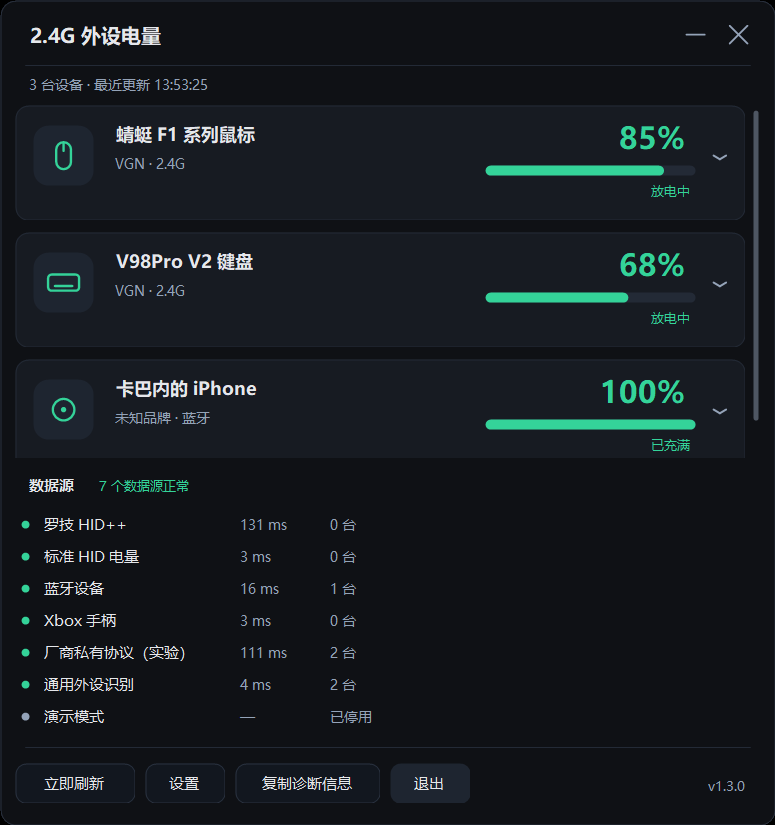
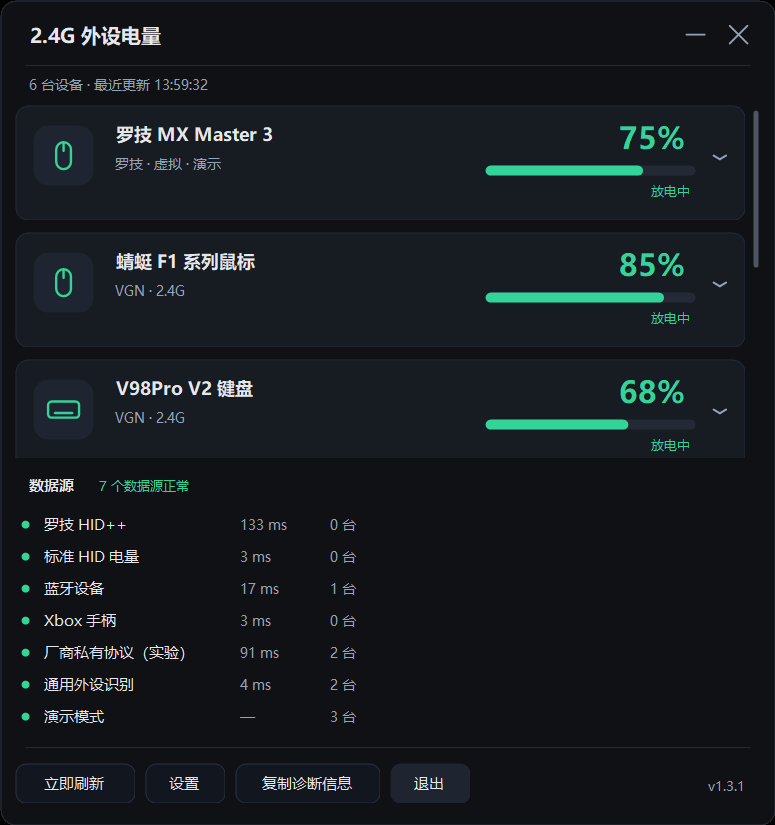
chore: 开源准备（MIT License、CI、SignPath 免费签名流程、贡献/安全文档）
- LICENSE (MIT), CONTRIBUTING.md, SECURITY.md, issue templates
- .github/workflows/build.yml（windows-latest 构建+自检）
- .github/workflows/release-sign.yml（SignPath 签名并发布 Release 模板）
- docs/opensource-signing.md（SignPath Foundation / Certum 申请配置步骤）
- README 增加英文简介、开源与许可说明；截图改用演示设备
- .gitignore 忽略 USB 抓包

diff --git a/docs/opensource-signing.md b/docs/opensource-signing.md
@@ -1,0 +1,115 @@
+# 开源项目免费代码签名（SignPath / Certum）
+
+> 目标：GitHub 开源后，用**开源项目专用**的免费代码签名，让 exe 显示正式发布者，
+> 不再出现 "Unknown publisher"。注意：免费证书基本都是 OV 级别，
+> **SmartScreen 信誉仍会随下载量/时间积累**，不会像 EV 那样立刻全绿。
+
+---
+
+## 方案 A：SignPath Foundation（推荐，可接 GitHub Actions）
+
+SignPath 为开源项目提供免费的代码签名服务（证书由 Sectigo/SignPath Foundation 签发）。
+适合：公开仓库 + OSI 认可许可证（MIT/Apache/GPL 等）+ 非商业项目。
+
+### 1. 先把仓库整理成可申请状态
+
+- GitHub 仓库 **public**；
+- 根目录有 `LICENSE`（本项目用 MIT）；
+- 有 README、构建脚本、release；
+- 项目在维护（有提交/issue）。
+
+### 2. 申请
+
+打开 <https://signpath.org/foundation>，填写：
+
+- 项目名、仓库 URL、许可证；
+- 维护者联系方式；
+- 说明用途（开源桌面工具，签名 Windows exe）。
+
+审核通过后你会收到 SignPath 账号邀请。
+
+### 3. 在 SignPath 里配置
+
+1. 安装 **SignPath GitHub App** 到你的仓库（只勾选目标仓库）；
+2. 新建 Project：slug 建议 `peripheral-battery`；
+3. 新建 **Artifact Configuration**：slug 建议 `exe`，指定要签名的文件：
+   `PeripheralBattery.exe`、`BatteryProbe.exe`、`VgnProbe.exe`；
+4. 新建 **Signing Policy**：slug 建议 `release-signing`，绑定该 artifact configuration；
+5. 在组织设置里生成 **API token**，记下 **Organization ID**。
+
+### 4. 配置 GitHub Secrets / Variables
+
+仓库 → Settings → Secrets and variables → Actions：
+
+| 类型 | 名称 | 值 |
+| --- | --- | --- |
+| Secret | `SIGNPATH_API_TOKEN` | SignPath 生成的 token |
+| Secret | `SIGNPATH_ORGANIZATION_ID` | SignPath Organization ID |
+| Variable（可选） | `SIGNPATH_PROJECT_SLUG` | 默认 peripheral-battery |
+| Variable（可选） | `SIGNPATH_POLICY_SLUG` | 默认 release-signing |
+| Variable（可选） | `SIGNPATH_CONFIG_SLUG` | 默认 exe |
+
+### 5. 发版
+
+仓库里已经准备好 `.github/workflows/release-sign.yml`：
+
+`bash
+git tag v1.3.1
+git push origin v1.3.1
+`
+
+工作流会：构建 → 跑自检 → 上传未签名产物 → 提交 SignPath 签名 → 等签名完成 →
+打包 zip → 创建 GitHub Release。签名后的文件在 `signed/` 目录。
+
+> 第一次跑之前，把 workflow 里的 `artifact-configuration-slug` 等改成你在 SignPath 里实际创建的 slug。
+
+### 6. SmartScreen 预期
+
+- 签名后属性里会显示发布者为 **SignPath Foundation**（或你项目绑定的组织）；
+- OV 证书初始仍可能触发 SmartScreen，需要下载量/时间积累信誉；
+- 想立刻全绿只能 EV（开源项目一般拿不到免费 EV）。
+
+---
+
+## 方案 B：Certum 开源代码签名证书（手工签名）
+
+Certum 对开源开发者提供免费代码签名证书（Open Source Code Signing）：
+
+1. 打开 Certum 的 Open Source Code Signing 页面，提交项目仓库、许可证、维护者身份；
+2. 审核通过后按邮件指引完成身份验证，证书通过 **SimplySign** 云签名使用；
+3. 签名（本项目脚本支持 PFX / 证书指纹）：
+   `powershell
+   powershell -ExecutionPolicy Bypass -File installer\sign.ps1 -Thumbprint <证书指纹>
+   `
+4. 时间戳已内置（RFC3161），证书过期后签名仍有效。
+
+缺点：没有 SignPath 那种开箱即用的 GitHub Action，需要手工/自定义 CI；仍然是 OV 信誉模型。
+
+---
+
+## 方案 C：不符合免费资格时
+
+- SignPath.io 付费计划（按签名次数）；
+- Azure Trusted Signing（要求约 3 年企业历史，个人通常不符合）；
+- 购买 OV/EV 证书（见 `docs/signing.md`）。
+
+---
+
+## 发布检查清单
+
+- [ ] 仓库 public + LICENSE（MIT）
+- [ ] `.github/workflows/build.yml` 绿灯
+- [ ] SignPath 申请通过，GitHub App 已安装
+- [ ] Secrets / Variables 配好
+- [ ] 打 tag → release-sign 工作流成功
+- [ ] 下载 release 里的 exe，属性 → 数字签名 显示有效
+- [ ] 在干净机器上运行一次，确认 SmartScreen 表现
+- [ ] 发布页附 `SHA256SUMS.txt`
+
+---
+
+## 参考
+
+- SignPath Foundation：<https://signpath.org/foundation>
+- SignPath GitHub Action：<https://github.com/signpath/github-action-submit-signing-request>
+- Certum Open Source Code Signing：<https://www.certum.eu/en/code-signing-certificates/open-source-code-signing/>

diff --git a/CONTRIBUTING.md b/CONTRIBUTING.md
@@ -1,0 +1,33 @@
+# Contributing
+
+感谢你愿意参与。这个项目是一个 Windows 托盘工具，目标只有一个：**尽可能准确地显示 2.4G / 蓝牙外设的电量，并且不骗人**（读不到就显示未知）。
+
+## 构建
+
+要求：Windows 10/11 x64 + .NET Framework 4.8（系统自带，不需要 .NET SDK / NuGet）。
+
+`powershell
+powershell -ExecutionPolicy Bypass -File .\build.ps1 -Probe
+.\dist\app\BatteryProbe.exe --selftest
+`
+
+## 代码约定
+
+- C# 5 语法（csc.exe 4.8），不使用 NuGet / 第三方库；
+- UI 改动请附截图（125% DPI 下验收）；
+- 新增品牌协议请先读 `docs/generic-method.md`，然后只改
+  `src/Core/Providers/VendorBatteryProtocols.cs` 里的协议表；
+- 不允许提交厂商软件的私有代码/二进制；只提交自己实现的协议常量和解析逻辑；
+- 提交前跑一次 `BatteryProbe --selftest` 和 `BatteryProbe --vendor`。
+
+## 新增一个品牌
+
+1. 用 USBPcap + Wireshark 抓一次“官方软件读电量”的 USB 包；
+2. 找到 OUT/IN 的 HID Data（报告 ID、命令、响应偏移、校验）；
+3. 在 `VendorProtocolRegistry.All` 加一条 `VendorBatteryProtocol`；
+4. 用 `BatteryProbe.exe --vendor` 和主程序验证；
+5. 更新 `docs/support-matrix.md` 与 README。
+
+## 许可
+
+提交代码即表示同意以 MIT License 发布。请确保你有权提交相关内容。

diff --git a/SECURITY.md b/SECURITY.md
@@ -1,0 +1,18 @@
+# Security Policy
+
+## 支持范围
+
+只对最新 release（当前 1.3.x）提供安全修复；旧版本请先升级。
+
+## 报告问题
+
+请使用 GitHub 的 **Security → Report a vulnerability**（私有安全公告），不要直接开公开 issue。
+也可以在 issue 中只说明“涉及安全问题”，我们会私信联系。
+
+## 设计边界
+
+- 程序只发送**只读查询**命令读取电量，不写配置、不升级固件；
+- 不需要管理员权限，不安装驱动，不联网，不上传数据；
+- 厂商协议通过 `VendorProtocolRegistry` 表驱动，每条都要求响应校验（命令回显 + 0–100 范围）。
+
+如果你发现某个协议实现会修改设备状态，请立即报告。

diff --git a/.github/ISSUE_TEMPLATE/bug_report.md b/.github/ISSUE_TEMPLATE/bug_report.md
@@ -1,0 +1,20 @@
+---
+name: Bug report
+about: 程序/设备读取问题
+title: "[Bug] "
+labels: bug
+---
+
+**环境**
+- Windows 版本：
+- 程序版本（托盘右下角 / 诊断信息）：
+- 设备型号 + VID:PID：
+
+**现象**
+（截图 + 文字）
+
+**诊断信息**
+请粘贴“复制诊断信息”的内容，或 `BatteryProbe.exe --vendor` 的输出。
+
+**是否安装厂商软件**
+（VGN HUB / G HUB / Synapse 等，版本）

diff --git a/.github/ISSUE_TEMPLATE/feature_request.md b/.github/ISSUE_TEMPLATE/feature_request.md
@@ -1,0 +1,15 @@
+---
+name: Feature request
+about: 新品牌/新功能
+title: "[Feature] "
+labels: enhancement
+---
+
+**需求**
+
+**设备/品牌**
+- 型号：
+- VID:PID（可用 `BatteryProbe --vendor` 查看）：
+
+**你愿意提供抓包吗**
+（USBPcap 抓一次官方软件读电量，能大幅提高适配成功率）
